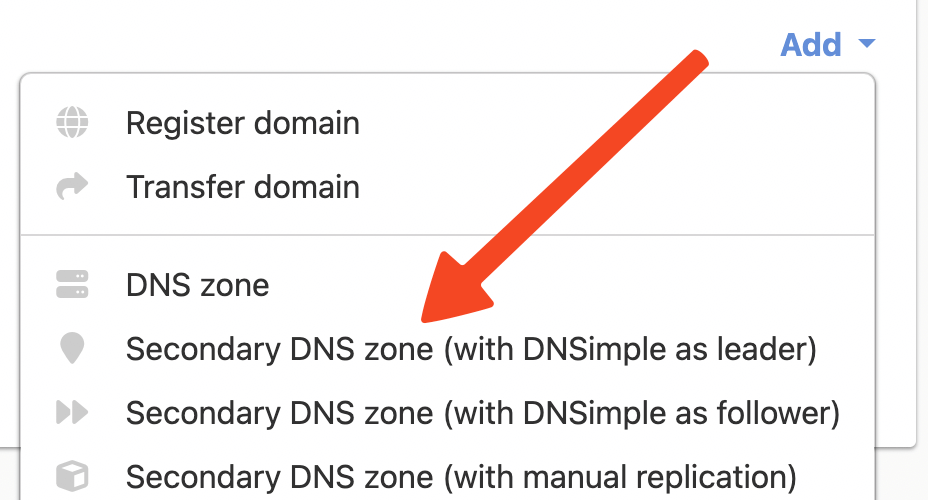
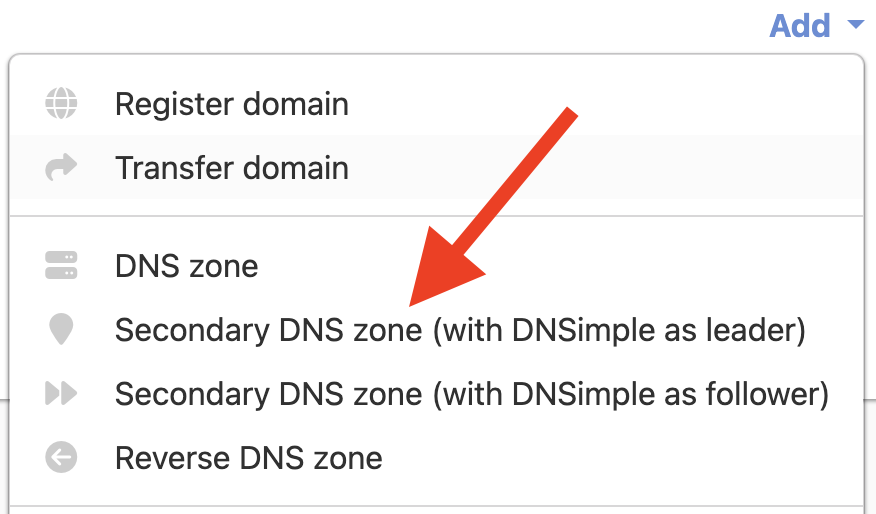
Remove references to Manual Secondary DNS feature (#1292)
* feat: Update Secondary DNS dashboard links images

* feat: Update Secondary DNS card image

* feat: Update article about Manual Secondary

* fix: Update article link

* tightens copy, adds contact support

* fixes subheader typo

---------

diff --git a/content/articles/secondary-dnsimple.md b/content/articles/secondary-dnsimple.md
@@ -8,10 +8,10 @@ categories:
 # Using DNSimple alongside other DNS providers
 
 <warning>
-  If you want to set up automatic zone transfers (AXFR) between DNSimple and another DNS service provider, head to the [Add a secondary DNS server to DNSimple](/articles/secondary-dns/) and [Add DNSimple as a secondary DNS server](/articles/secondary-dns-dnsimple-as-secondary/) articles
+  If you want to set up automatic zone transfers (AXFR) between DNSimple and another DNS service provider, head to the [Add a secondary DNS server to DNSimple](/articles/secondary-dns/) and [Add DNSimple as a secondary DNS server](/articles/secondary-dns-dnsimple-as-secondary/) articles.
 </warning>
 
-You can combine our secondary DNS feature with our API or UI to have zone redundancy with other DNS providers. You're responsible for keeping the zones in sync between other DNS providers and DNSimple. There are several ways to do this:
+You can use our API or UI to have zone redundancy with other DNS providers. You're responsible for keeping the zones in sync between other DNS providers and DNSimple. There are several ways to do this:
 
 - [Adding the records](/articles/record-editor/) manually through our UI.
 - [Importing a zone file](/articles/zone-files/#importing-records-from-a-zone-file) from your primary provider.
@@ -22,31 +22,16 @@ This diagram shows how zone changes are propagated to both DNS service providers
 
 <img alt="Externally managed Secondary DNS diagram" src="/files/secondary_dns_externally_managed.jpg" />
 
-## Configuring DNSimple along another DNS provider
 
-To set up zone redundancy with another DNS provider:
+## Configuring DNSimple alongside another DNS provider (hosted domain)
 
-- If you don't have the domain in your DNSimple account, [add it with "Add DNS zone"](/articles/adding-domain/).
-- Go to the domain page, and click on the DNS in the menu.
-- Under the Secondary DNS card, click on <label>Use DNSimple along another DNS provider</label>.
+To set up zone redundancy with another DNS provider on your zone, follow the steps detailed in [Updating NS Records for the Zone of a Hosted Domain](/articles/zone-ns-records/).
 
-  ![Change you Secondary DNS configuration](/files/secondary-dnsimple-1.png)
 
-- Enter the name servers of your primary DNS provider in the <label>Name servers</label> field.
+## Configuring DNSimple alongside another DNS provider (registered domain)
 
-  ![Configure primary DNS provider name servers](/files/secondary-dnsimple-2.png)
+To set up zone redundancy with another DNS provider on your domain, follow the steps detailed in [Setting the Name Servers for a Domain Name](/articles/setting-name-servers/#pointing-the-name-servers-to-another-provider).
 
-- Click on <label>Save</label>.
+## Have more questions? 
 
-<div class="section-steps" markdown="1">
-##### Adding a secondary DNS zone with manual replication from the dashboard
-
-Alternatively, you can add a secondary DNS zone with manual replication from your dashboard:
-
-1.  Log in to DNSimple with your user credentials.
-1.  If you have more than one account, select the relevant one.
-1.  Click <label>Add</label> from the Dashboard, and choose <label>Secondary DNS zone (with manual replication)</label> from the provided options.
-  ![Adding a secondary DNS zone with manual replication](/files/add-button-secondary-dns-manual-replication.png)
-1.  Enter the <label>Zone name</label> and <label>Name servers</label>.
-1.  Click <label>Save</label>.
-</div>
+If you have additional questions or need assistance setting up zone redundancy, [contact support](https://dnsimple.com/feedback), and we'll be happy to help.
